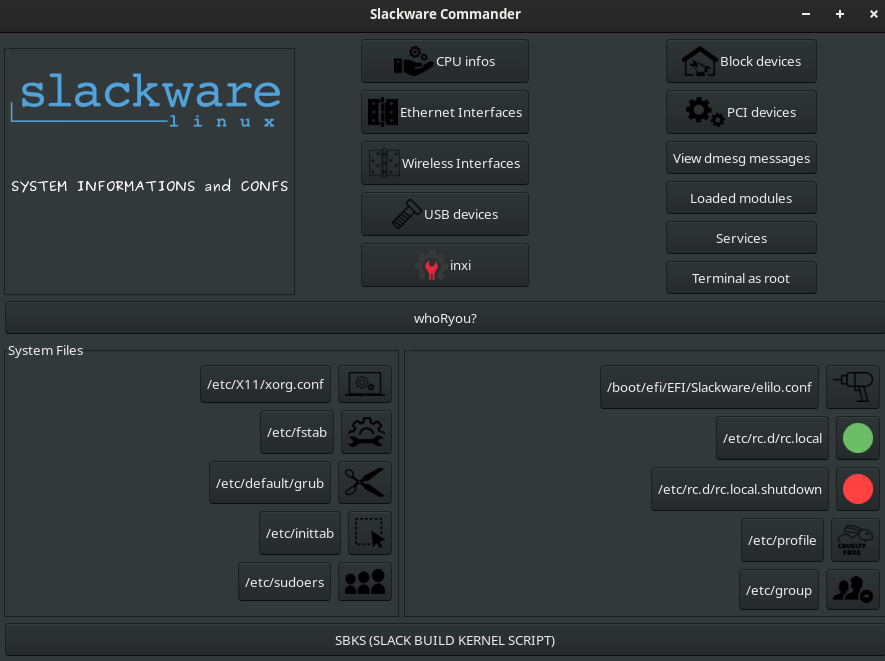
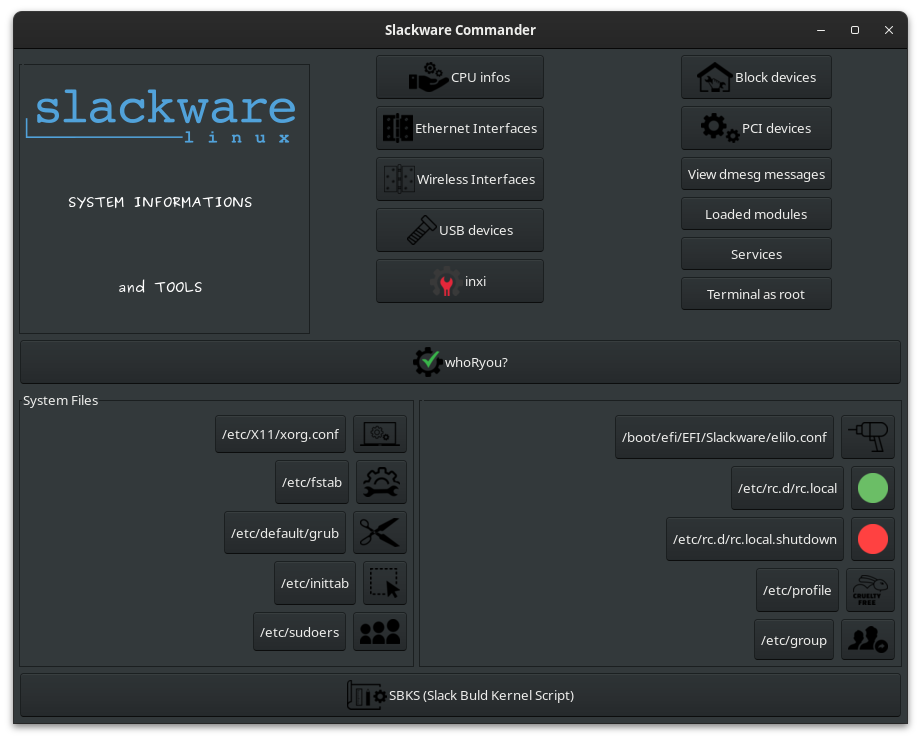
update for release 2.0.2

diff --git a/README.md b/README.md
@@ -12,7 +12,7 @@ yad
 ```
 
 #### GNOME-KDE-XFCE
-![Slackware-Commander](https://github.com/rizitis/Slackware-Commander/raw/main/Slackware-Commander-1.0.0.png)
+![Slackware-Commander](https://github.com/rizitis/Slackware-Commander/raw/main/Slackware-Commander-2.0.2.png)
 ![Slackware-Commander](https://github.com/rizitis/Slackware-Commander/blob/main/Slackware-Commander-dark.png?raw=true)
 
 ##### Uninstall
